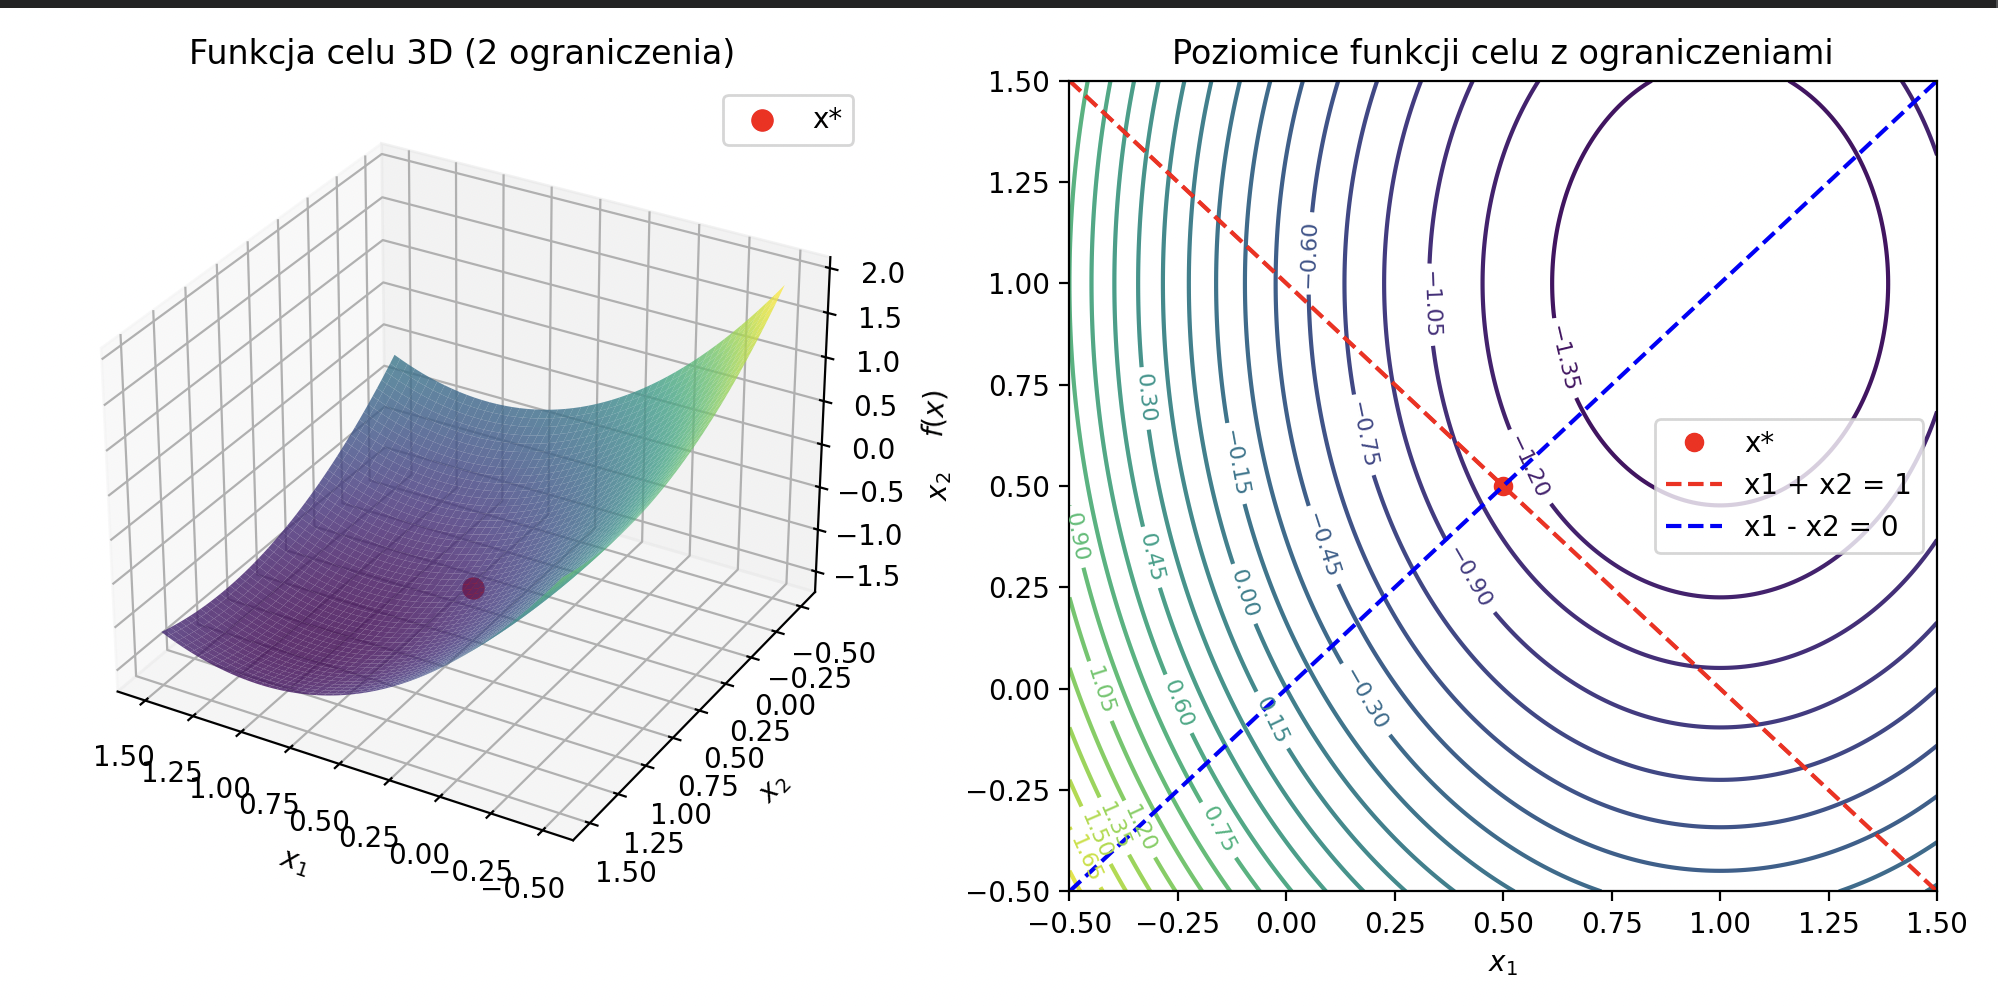
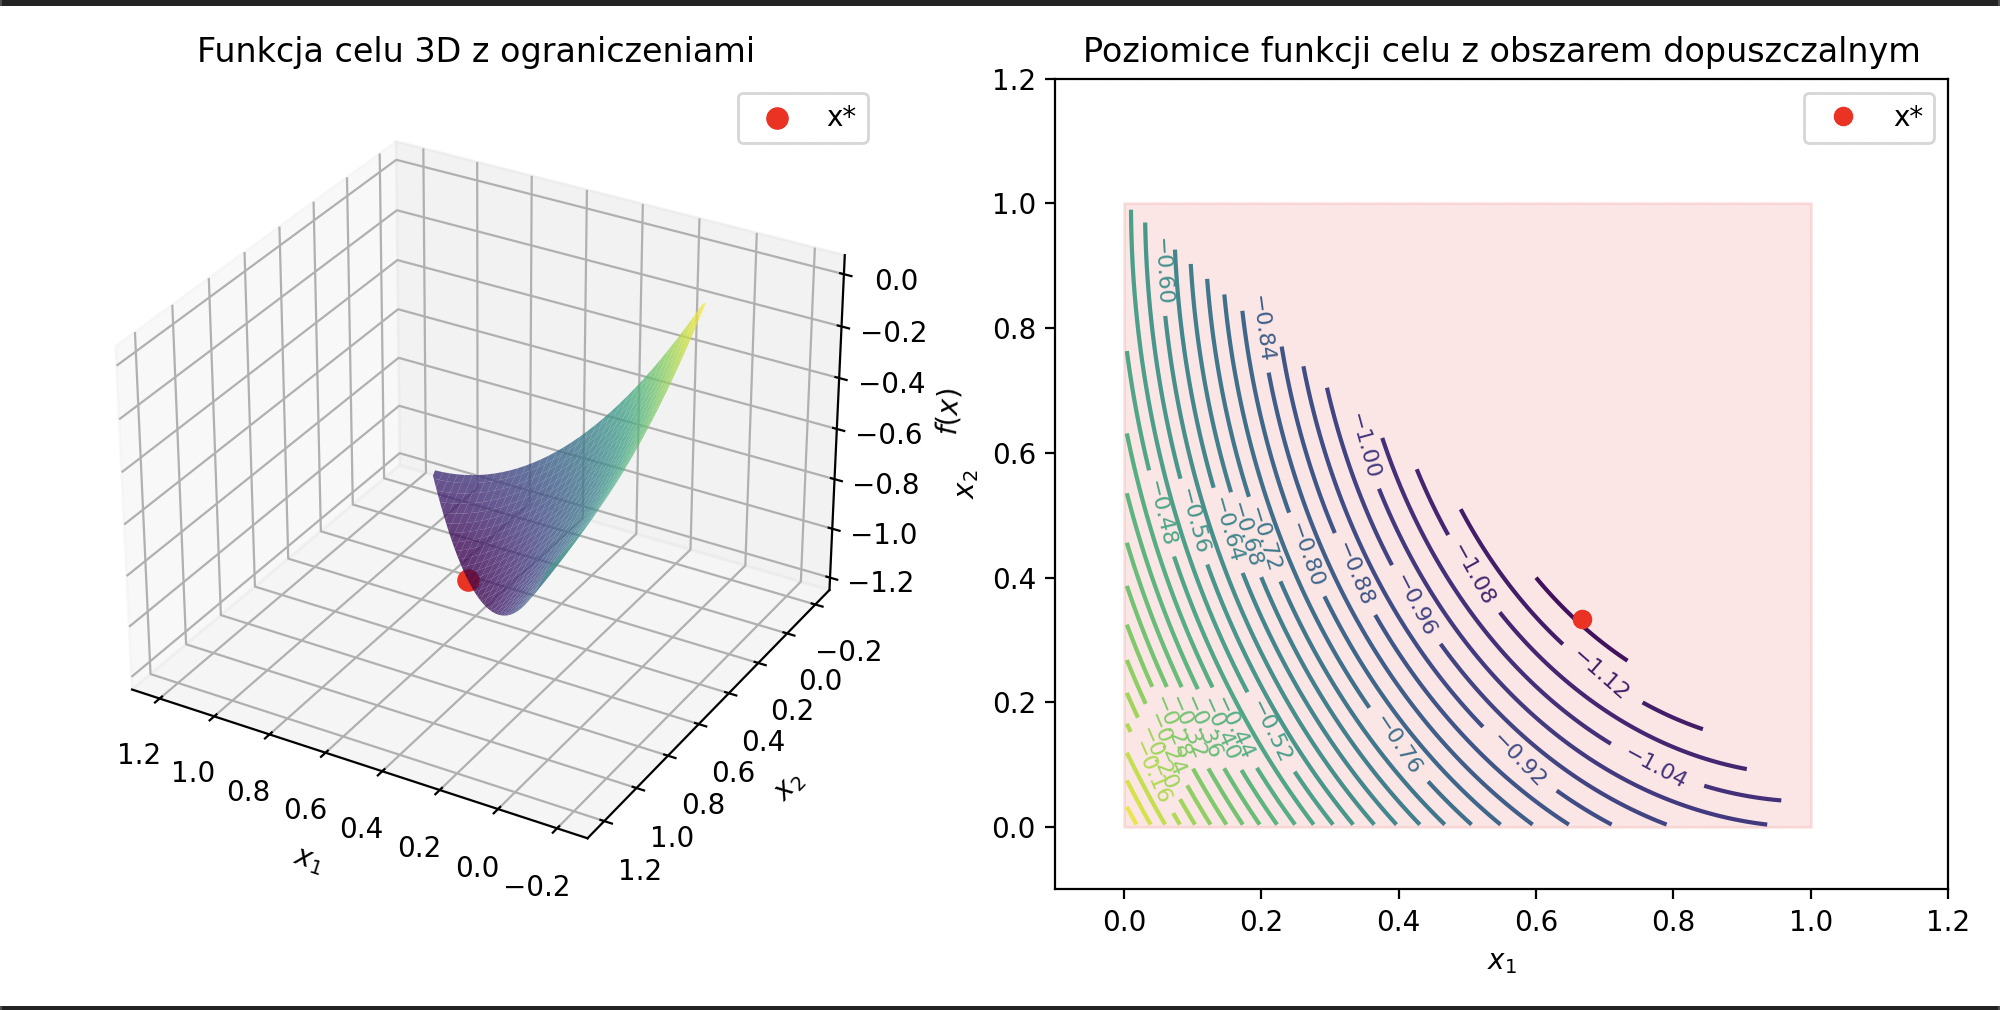
ZAD2 Wizualizacje DONE

diff --git a/Projekt2/VIZ_TASK2.py b/Projekt2/VIZ_TASK2.py
@@ -1,0 +1,71 @@
+import numpy as np
+import matplotlib.pyplot as plt
+from matplotlib.patches import Polygon
+from mpl_toolkits.mplot3d import Axes3D
+
+# Dane problemu
+G = np.array([[2, 0],
+              [0, 1]])
+t = np.array([-2, -1])
+
+# Ograniczenia nierównościowe: Ax <= b
+A = np.array([[1, 1],
+              [-1, 0],
+              [0, -1]])
+b = np.array([1, 0, 0])
+
+# Funkcja celu
+def f(x):
+    return 0.5 * x.T @ G @ x + t.T @ x
+
+# Tworzymy siatkę punktów
+x1 = np.linspace(-0.2, 1.2, 200)
+x2 = np.linspace(-0.2, 1.2, 200)
+X1, X2 = np.meshgrid(x1, x2)
+F = np.zeros_like(X1)
+
+for i in range(X1.shape[0]):
+    for j in range(X1.shape[1]):
+        x_vec = np.array([X1[i,j], X2[i,j]])
+        # sprawdzamy, czy punkt spełnia ograniczenia
+        if np.all(A @ x_vec <= b + 1e-8):
+            F[i,j] = f(x_vec)
+        else:
+            F[i,j] = np.nan  # punkty poza obszarem dopuszczalnym
+
+# Punkt optymalny
+x_star = np.array([2/3, 1/3])
+f_star = f(x_star)
+
+# Wykres 3D
+fig = plt.figure(figsize=(10,5))
+ax = fig.add_subplot(121, projection='3d')
+ax.plot_surface(X1, X2, F, cmap='viridis', alpha=0.8)
+ax.scatter(x_star[0], x_star[1], f_star, color='r', s=50, label='x*')
+ax.set_xlabel('$x_1$')
+ax.set_ylabel('$x_2$')
+ax.set_zlabel('$f(x)$')
+ax.set_title('Funkcja celu 3D z ograniczeniami')
+ax.view_init(elev=30, azim=120)
+ax.legend()
+
+# Wykres poziomicowy
+ax2 = fig.add_subplot(122)
+contours = ax2.contour(X1, X2, F, levels=30, cmap='viridis')
+ax2.clabel(contours, inline=True, fontsize=8)
+ax2.plot(x_star[0], x_star[1], 'ro', label='x*')
+
+# Rysujemy obszar dopuszczalny (A*x <= b)
+verts = [[0,0],[1,0],[1,1],[0,1]]
+poly = Polygon([[0,0],[1,0],[1,1],[0,1]], color='red', alpha=0.1)
+ax2.add_patch(poly)
+ax2.set_xlim(-0.1,1.2)
+ax2.set_ylim(-0.1,1.2)
+
+ax2.set_xlabel('$x_1$')
+ax2.set_ylabel('$x_2$')
+ax2.set_title('Poziomice funkcji celu z obszarem dopuszczalnym')
+ax2.legend()
+
+plt.tight_layout()
+plt.show()

diff --git a/Projekt2/Report.md b/Projekt2/Report.md
@@ -1106,7 +1106,7 @@ Zgodnie z treścią zadania wykonano take wizualizacje:
 - punktu optymalnego leżącego na zbiorze dopuszczalnym.
 
 Wizualizacje zostały zapiane do pliku: /Visualisations/TASK1_Visualisations.png
-![Wizualizacja zadania 1](Visualisations/TASK2_Visualisations.png)
+![Wizualizacja zadania 1](Visualisations/TASK1_2_Visualisations.png)
 
 Jak widzimy, wizualizacje potwierdzają, że punkt optymalny odpowiada minimum funkcji celu przy jednoczesnym spełnieniu obu ograniczeń równościowych x1 + x2 = 1 oraz x1 - x2 = 0. Wykres trójwymiarowy przedstawia powierzchnię funkcji celu f(x) oraz punkt rozwiązania zadania z ograniczeniami.
 Wykres poziomicowy ukazuje elipsy poziomic funkcji celu, a przecięcie linii wynikających z ograniczeń wskazuje dopuszczalny obszar rozwiązań. Punkt optymalny znajduje się dokładnie w miejscu przecięcia tych linii, co wizualnie potwierdza spełnienie warunków ograniczeń i osiągnięcie minimum funkcji celu.
@@ -1329,3 +1329,15 @@ f(x^\ast) = -1.1667.
 
 Punkt \(x^\ast\) spełnia wszystkie ograniczenia nierównościowe zdefiniowane w zadaniu: \(x_1 + x_2 \le 1\), \(x_1 \ge 0\), \(x_2 \ge 0\).  
 Wartość funkcji celu odpowiada minimalnej wartości funkcji kwadratowej w obszarze dopuszczalnym zdefiniowanym przez ograniczenia nierównościowe. Porównując z wynikami uzyskanymi metodą ograniczeń aktywnych, widzimy pełną zgodność rozwiązań, co potwierdza poprawność implementacji obu metod.
+
+## Wizualizacja problemu
+
+Poniższe wykresy przedstawiają funkcję celu zadania 2 oraz obszar dopuszczalny wynikający z ograniczeń nierównościowych.
+
+- Wykres 3D pokazuje powierzchnię funkcji celu \(f(x)\) w przestrzeni \(\mathbb{R}^2\) oraz punkt optymalny \(x^\ast\).  
+- Wykres poziomicowy ukazuje linie poziomic funkcji celu, obszar dopuszczalny wyznaczony przez ograniczenia nierównościowe (zacieniowany obszar) oraz punkt optymalny.
+
+Wizualizacje zostały zapiane do pliku: /Visualisations/TASK1_Visualisations.png
+![Wizualizacja zadania 2](Visualisations/TASK2_Visualisations.png)
+
+Jak możemy zauważyć punkt \(x^\ast = [0.6667, 0.3333]\) leży na krawędzi dopuszczalnego obszaru, co jest typowe w zadaniach z ograniczeniami nierównościowymi. Wizualizacja poziomicowa pozwala zauważyć, że minimum funkcji kwadratowej ograniczone jest przez styczność poziomicy z granicą obszaru dopuszczalnego.
